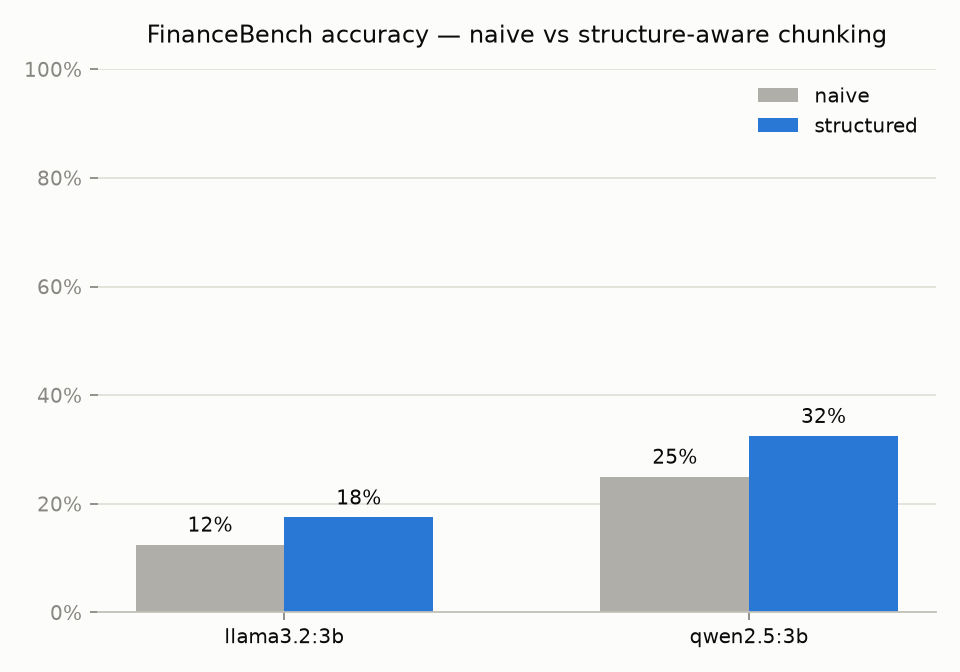
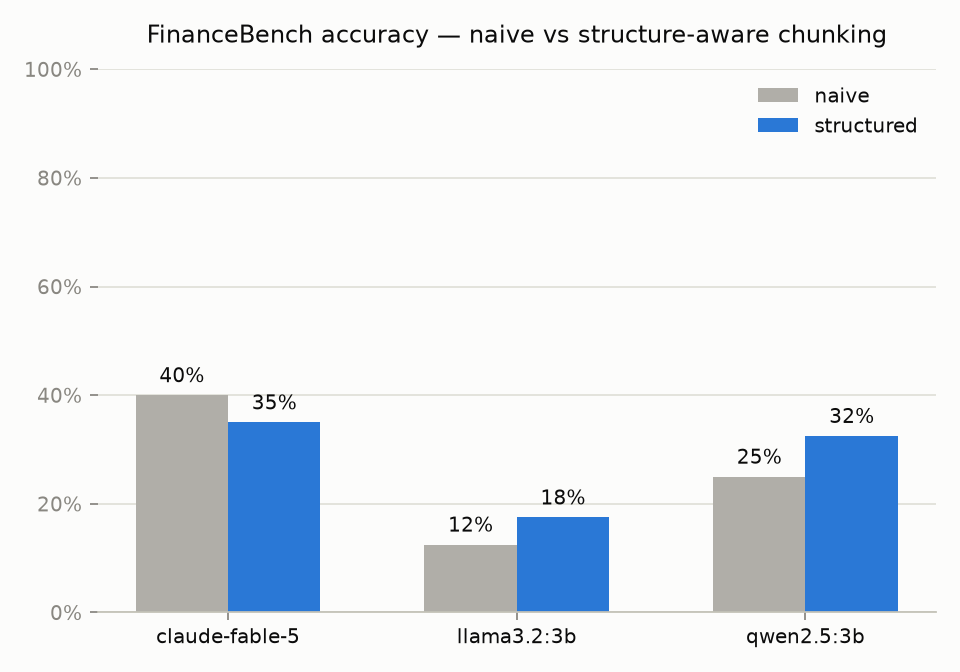
Add Claude Fable 5 in-chat benchmark: 40%/35% naive/structured
Fable 5 answered all 80 (question, context) pairs in a Claude Code
session over the pipeline's exact retrieved contexts (no API), graded by
the same qwen2.5:3b judge. Far above the 3B models on both strategies;
the naive-vs-structured gap vanishes for a strong reader (delta within
judge noise at n=40). Naive contexts triggered more abstentions (14 vs 9
refusals). Charts and results.md regenerated; raw dumps stay local.

Changed region(s): [[0.125, 0.5312, 0.75, 0.9688], [0.7188, 0.625, 0.9062, 0.9688], [0.8438, 0.5938, 0.9062, 0.625]]

diff --git a/README.md b/README.md
@@ -52,12 +52,29 @@ qwen2.5:3b against gold answers. Fully local, $0 in API costs.
 |---|---|---|---|
 | llama3.2:3b | 12.5% | 17.5% | **+5.0 pts** |
 | qwen2.5:3b | 25.0% | 32.5% | **+7.5 pts** |
+| claude-fable-5 (in-chat) | 40.0% | 35.0% | −5.0 pts* |
 
 ![accuracy by model](results/charts/accuracy_by_model.png)
 
-Structure-aware chunking beats the naive baseline on both models. (For
-calibration: the FinanceBench paper's GPT-4 + shared-vector-store baseline
-scored ~19% — same ballpark as our naive runs.)
+Structure-aware chunking beats the naive baseline on both small local models.
+(For calibration: the FinanceBench paper's GPT-4 + shared-vector-store
+baseline scored ~19% — same ballpark as our naive runs.)
+
+**\*The strong-model twist.** Claude Fable 5 answered the same 80
+(question, retrieved-context) pairs — run in a Claude Code session over the
+pipeline's exact contexts rather than via API, graded by the same qwen2.5:3b
+judge. Its scores dwarf the 3B models on both strategies, but the
+naive-vs-structured gap *disappears* (the −5 pt inversion is within noise:
+on at least 4 questions the judge returned opposite verdicts for
+near-identical answer texts, and n=40). Two honest observations survive the
+noise: a strong reader can extract answers from raw, header-less naive table
+fragments that sink a 3B model, so chunking quality matters most when the
+answer model is weak; and naive contexts made Fable *abstain* more (14
+"insufficient evidence" refusals vs 9 under structured) — structured
+retrieval more often gave it enough evidence to attempt an answer. Each
+strategy also won real retrieval head-to-heads the other lost (structured
+found the cash-flow capex table; naive happened to contain the balance-sheet
+PP&E line).
 
 **My favorite failure.** Asked for Amcor's FY2023 revenue, the structured
 pipeline answers *"$14,694 million"*. The naive pipeline answers

diff --git a/results/results.md b/results/results.md
@@ -4,6 +4,7 @@
 
 | Model | Naive | Structured | Δ |
 |---|---|---|---|
+| chat/claude-fable-5 | 40.0% | 35.0% | -5.0% |
 | ollama/llama3.2:3b | 12.5% | 17.5% | +5.0% |
 | ollama/qwen2.5:3b | 25.0% | 32.5% | +7.5% |
 
@@ -11,6 +12,7 @@
 
 | Model | structured | ablation_no_atomic_tables | ablation_no_bm25 | ablation_no_headers | ablation_no_parent_expansion |
 |---|---|---|---|---|---|
+| chat/claude-fable-5 | 35.0% | — | — | — | — |
 | ollama/llama3.2:3b | 17.5% | 15.0% | 20.0% | 12.5% | 15.0% |
 | ollama/qwen2.5:3b | 32.5% | 37.5% | 20.0% | 25.0% | 22.5% |
 
@@ -26,7 +28,9 @@
 | ablation_no_headers | ollama/qwen2.5:3b | 40 | 10 | 15 | 15 | 0 | 25.0% |
 | ablation_no_parent_expansion | ollama/llama3.2:3b | 40 | 6 | 30 | 4 | 0 | 15.0% |
 | ablation_no_parent_expansion | ollama/qwen2.5:3b | 40 | 9 | 11 | 20 | 0 | 22.5% |
+| naive | chat/claude-fable-5 | 40 | 16 | 10 | 14 | 0 | 40.0% |
 | naive | ollama/llama3.2:3b | 40 | 5 | 26 | 9 | 0 | 12.5% |
 | naive | ollama/qwen2.5:3b | 40 | 10 | 14 | 16 | 0 | 25.0% |
+| structured | chat/claude-fable-5 | 40 | 14 | 17 | 9 | 0 | 35.0% |
 | structured | ollama/llama3.2:3b | 40 | 7 | 25 | 8 | 0 | 17.5% |
 | structured | ollama/qwen2.5:3b | 40 | 13 | 18 | 9 | 0 | 32.5% |